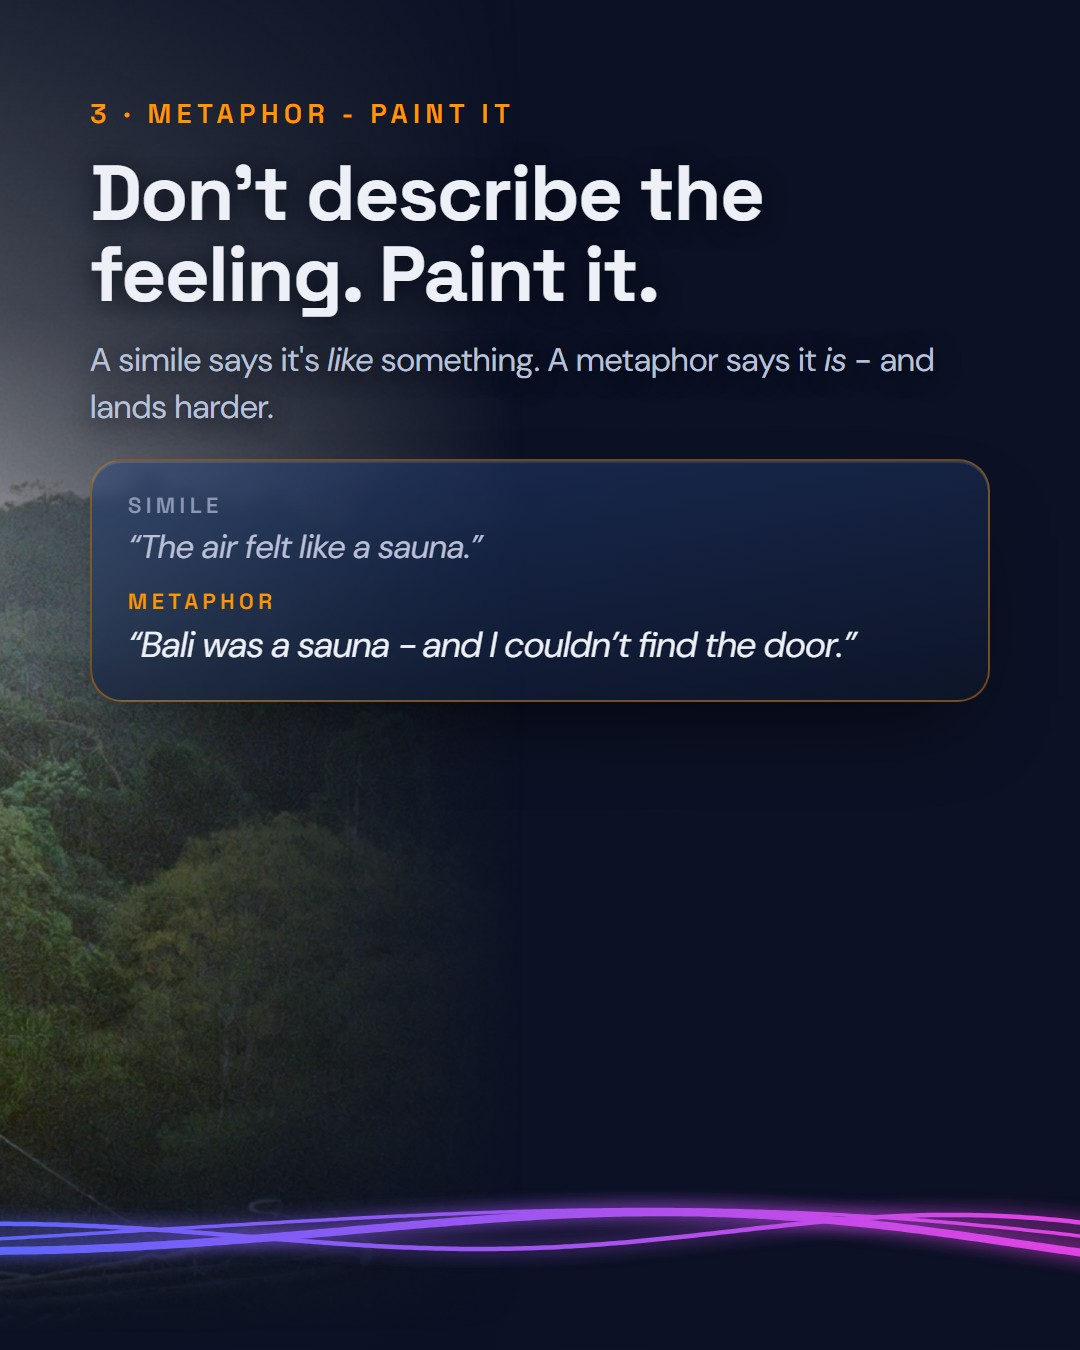
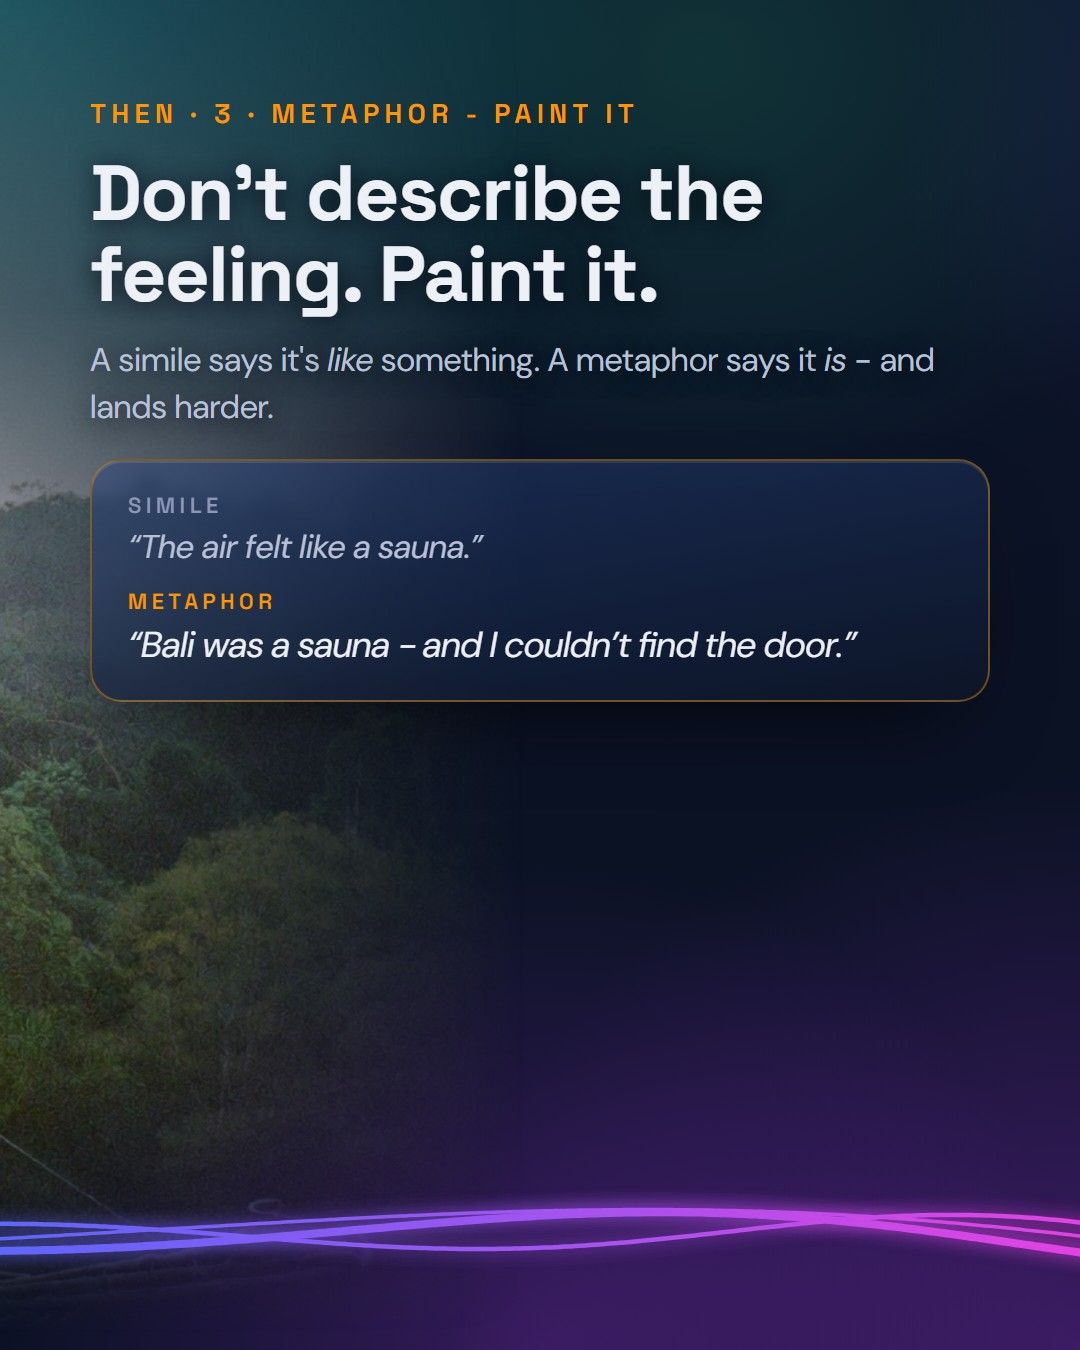
Phone deck viewer: Post 4 revised - glassy gradient background, Setting-then-Scene framework with the Star Wars opening, Moral, a Bali practice photo

Changed region(s): [[0.2139, 0.7467, 1.0, 1.0], [0.0, 0.0, 0.825, 0.2178]]

diff --git a/public/d-BlBAiR0ZRDrG/index.html b/public/d-BlBAiR0ZRDrG/index.html
@@ -2,4 +2,4 @@
 header{position:sticky;top:0;z-index:2;display:flex;align-items:center;justify-content:space-between;gap:12px;padding:12px 16px;padding-top:max(12px,env(safe-area-inset-top));background:rgba(7,11,24,.92);backdrop-filter:blur(8px);border-bottom:1px solid #1d2644}
 h1{font-size:16px;margin:0;font-weight:600}a{color:#22D9F5}main{max-width:1200px;margin:0 auto;padding:12px 12px 48px;display:flex;flex-direction:column;gap:12px}
 figure{margin:0}img{display:block;width:100%;height:auto;border-radius:8px;background:#0B1224}figcaption{font-size:12px;color:#8790AB;padding:4px 2px 0}
-.list{max-width:560px;margin:0 auto;padding:24px 16px;display:flex;flex-direction:column;gap:14px}.card{display:block;padding:18px;border:1px solid #1d2644;border-radius:14px;background:#0B1224;text-decoration:none;color:#EEF0F7}.card img{margin-bottom:10px}.card small{color:#8790AB}</style></head><body><div class="list"><h1 style="font-size:22px">Speak Better decks</h1><a class="card" href="post4.html"><img src="post4/01.jpg" alt=""><b>Instagram · Post 4 - How to Tell Epic Stories</b><br><small>9-slide carousel · tap to swipe</small></a><a class="card" href="perfect.html"><img src="perfect/01.jpg" alt=""><b>Webinar · Perfect Webinar (new)</b><br><small>63 slides · tap to view · <span>PDF inside</span></small></a><a class="card" href="webinar.html"><img src="webinar/01.jpg" alt=""><b>Webinar · The 5 Secrets</b><br><small>58 slides · tap to view · <span>PDF inside</span></small></a><a class="card" href="investor.html"><img src="investor/01.jpg" alt=""><b>Investor Deck</b><br><small>21 slides · tap to view · <span>PDF inside</span></small></a><small style="color:#8790AB">Private link - please don't share.</small></div></body></html>
+.list{max-width:560px;margin:0 auto;padding:24px 16px;display:flex;flex-direction:column;gap:14px}.card{display:block;padding:18px;border:1px solid #1d2644;border-radius:14px;background:#0B1224;text-decoration:none;color:#EEF0F7}.card img{margin-bottom:10px}.card small{color:#8790AB}</style></head><body><div class="list"><h1 style="font-size:22px">Speak Better decks</h1><a class="card" href="post4.html"><img src="post4/01.jpg?v=2" alt=""><b>Instagram · Post 4 - How to Tell Epic Stories</b><br><small>9-slide carousel · tap to swipe</small></a><a class="card" href="perfect.html"><img src="perfect/01.jpg" alt=""><b>Webinar · Perfect Webinar (new)</b><br><small>63 slides · tap to view · <span>PDF inside</span></small></a><a class="card" href="webinar.html"><img src="webinar/01.jpg" alt=""><b>Webinar · The 5 Secrets</b><br><small>58 slides · tap to view · <span>PDF inside</span></small></a><a class="card" href="investor.html"><img src="investor/01.jpg" alt=""><b>Investor Deck</b><br><small>21 slides · tap to view · <span>PDF inside</span></small></a><small style="color:#8790AB">Private link - please don't share.</small></div></body></html>

diff --git a/public/d-BlBAiR0ZRDrG/post4.html b/public/d-BlBAiR0ZRDrG/post4.html
@@ -5,7 +5,7 @@ main{max-width:540px;margin:0 auto;padding:16px 16px 48px}h1{font-size:18px;marg
 .dots{display:flex;justify-content:center;gap:6px;margin:10px 0 18px}.dots i{width:6px;height:6px;border-radius:50%;background:#36406a}.dots i.on{background:#22D9F5}
 .pano{overflow-x:auto;border-radius:8px}.pano img{height:260px;display:block}h2{font-size:14px;margin:22px 0 8px;color:#B9C0D8}</style></head><body><main>
 <a href="index.html">‹ All</a><h1>Post 4 · How to Tell Epic Stories</h1><small>9 slides · swipe like Instagram</small>
-<div class="car" id="c"><img src="post4/01.jpg" alt="Slide 1"><img src="post4/02.jpg" alt="Slide 2"><img src="post4/03.jpg" alt="Slide 3"><img src="post4/04.jpg" alt="Slide 4"><img src="post4/05.jpg" alt="Slide 5"><img src="post4/06.jpg" alt="Slide 6"><img src="post4/07.jpg" alt="Slide 7"><img src="post4/08.jpg" alt="Slide 8"><img src="post4/09.jpg" alt="Slide 9"></div><div class="dots" id="d"><i></i><i></i><i></i><i></i><i></i><i></i><i></i><i></i><i></i></div>
-<h2>The whole panorama (scroll sideways)</h2><div class="pano"><img src="post4/panorama.jpg" alt="Full panorama"></div>
+<div class="car" id="c"><img src="post4/01.jpg?v=2" alt="Slide 1"><img src="post4/02.jpg?v=2" alt="Slide 2"><img src="post4/03.jpg?v=2" alt="Slide 3"><img src="post4/04.jpg?v=2" alt="Slide 4"><img src="post4/05.jpg?v=2" alt="Slide 5"><img src="post4/06.jpg?v=2" alt="Slide 6"><img src="post4/07.jpg?v=2" alt="Slide 7"><img src="post4/08.jpg?v=2" alt="Slide 8"><img src="post4/09.jpg?v=2" alt="Slide 9"></div><div class="dots" id="d"><i></i><i></i><i></i><i></i><i></i><i></i><i></i><i></i><i></i></div>
+<h2>The whole panorama (scroll sideways)</h2><div class="pano"><img src="post4/panorama.jpg?v=2" alt="Full panorama"></div>
 <small style="display:block;margin-top:18px">Private link - please don't share.</small></main>
 <script>const c=document.getElementById("c"),d=[...document.querySelectorAll("#d i")];const u=()=>{const i=Math.round(c.scrollLeft/c.clientWidth);d.forEach((x,k)=>x.classList.toggle("on",k===i))};c.addEventListener("scroll",u,{passive:true});u();</script></body></html>
